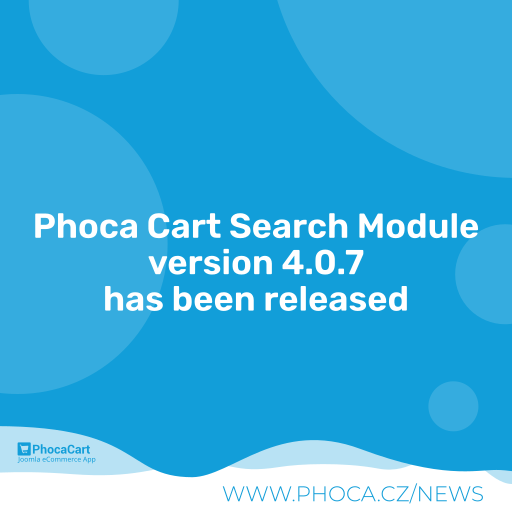
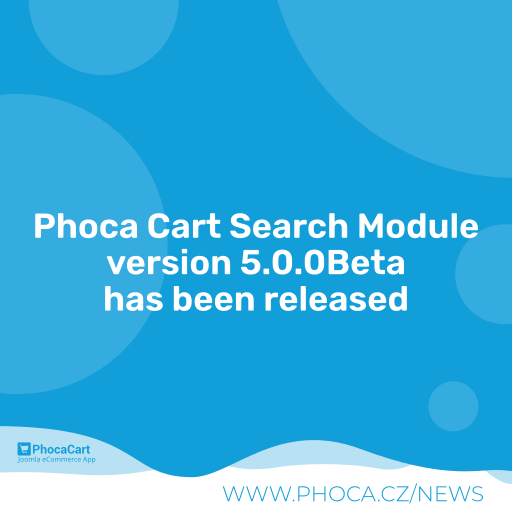
4.0.9

Changed region(s): [[0.1875, 0.4688, 0.8125, 0.5625]]

diff --git a/mod_phocacart_search.php b/mod_phocacart_search.php
@@ -8,10 +8,14 @@
  */
 
 defined('_JEXEC') or die;// no direct access
+use Joomla\CMS\Component\ComponentHelper;
+use Joomla\CMS\Factory;
+use Joomla\CMS\Language\Text;
+use Joomla\CMS\Helper\ModuleHelper;
 
-if (!JComponentHelper::isEnabled('com_phocacart')) {
-	$app = JFactory::getApplication();
-	$app->enqueueMessage(JText::_('Phoca Cart Error') . ' - ' . JText::_('Phoca Cart is not installed on your system'), 'error');
+if (!ComponentHelper::isEnabled('com_phocacart')) {
+	$app = Factory::getApplication();
+	$app->enqueueMessage(Text::_('Phoca Cart Error') . ' - ' . Text::_('Phoca Cart is not installed on your system'), 'error');
 	return;
 }
 
@@ -28,12 +32,12 @@ phocacartimport('phocacart.filter.filter');
 phocacartimport('phocacart.path.route');
 phocacartimport('phocacart.render.renderjs');*/
 
-$lang = JFactory::getLanguage();
+$lang = Factory::getLanguage();
 //$lang->load('com_phocacart.sys');
 $lang->load('com_phocacart');
 
 $moduleclass_sfx 					= htmlspecialchars((string)$params->get('moduleclass_sfx', ''), ENT_COMPAT, 'UTF-8');
-$document							= JFactory::getDocument();
+$document							= Factory::getDocument();
 
 $search								= new PhocacartSearch();
 $search->ajax						= 0;
@@ -119,5 +123,5 @@ $document->addScriptOptions('phParamsModPhocacartSearch', array('searchOptions' 
 
 
 //$document->addScriptDeclaration(implode("\n", $js));
-require(JModuleHelper::getLayoutPath('mod_phocacart_search', $params->get('layout', 'default')));
+require(ModuleHelper::getLayoutPath('mod_phocacart_search', $params->get('layout', 'default')));
 ?>

diff --git a/helper.php b/helper.php
@@ -14,17 +14,17 @@ class ModPhocaCartSearchHelper
 	public static function getAjax() {
 
 		jimport('joomla.application.module.helper');
-		if (!JComponentHelper::isEnabled('com_phocacart')) {
+		if (!ComponentHelper::isEnabled('com_phocacart')) {
 
-			echo '<div class="alert alert-error alert-danger">'.JText::_('Phoca Cart Error') . ' - ' . JText::_('Phoca Cart is not installed on your system').'</div>';
+			echo '<div class="alert alert-error alert-danger">'.Text::_('Phoca Cart Error') . ' - ' . Text::_('Phoca Cart is not installed on your system').'</div>';
 			return;
 		}
 
         JLoader::registerPrefix('Phocacart', JPATH_ADMINISTRATOR . '/components/com_phocacart/libraries/phocacart');
-		$lang = JFactory::getLanguage();
+		$lang = Factory::getLanguage();
 		$lang->load('com_phocacart');
 
-		$module = JModuleHelper::getModule('phocacart_search');
+		$module = ModuleHelper::getModule('phocacart_search');
 		$params = new JRegistry();
 		$params->loadString($module->params);
 

diff --git a/README.MD b/README.MD
@@ -60,7 +60,11 @@ Phoca Cart Search Module - a Joomla! CMS module which displays searching form - 
 
 ## Version (Joomla! 4.x)
 
-4.0.7
+4.0.9
+
+## Version (Joomla! 5.x)
+
+5.0.0Beta
 
 
 
@@ -71,3 +75,17 @@ GNU/GPL
 
 
 This project is open source project - feel free to contribute! Thank you.
+
+
+
+## Social Media
+
+- [Phoca on Facebook](https://www.facebook.com/Phoca.cz)
+
+- [Phoca on X (Twitter)](https://twitter.com/PhocaCz)
+
+- [Phoca on YouTube](https://www.youtube.com/user/phocavideos)
+
+- [Phoca on GitHub](https://github.com/PhocaCz)
+
+- [Phoca on Reddit](https://www.reddit.com/user/PhocaCz)
